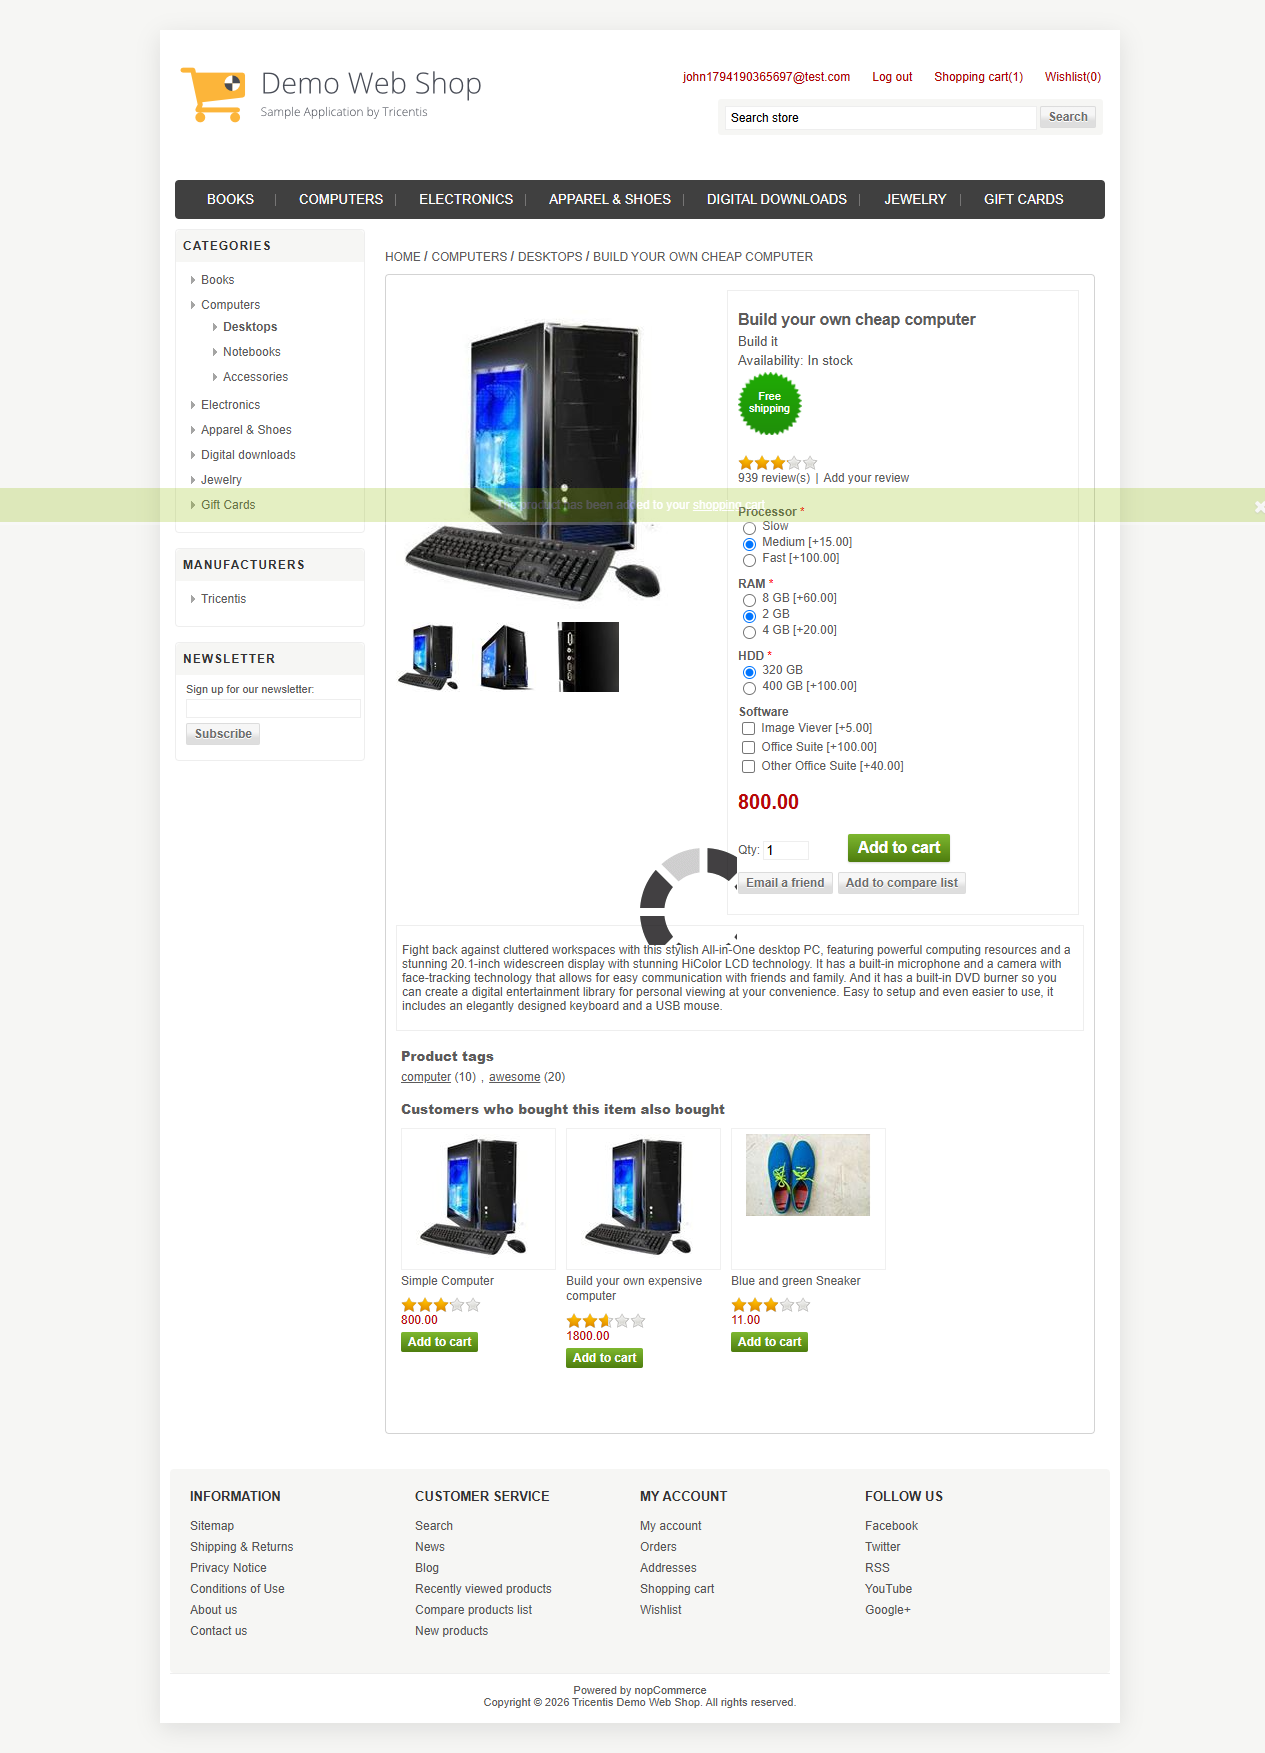
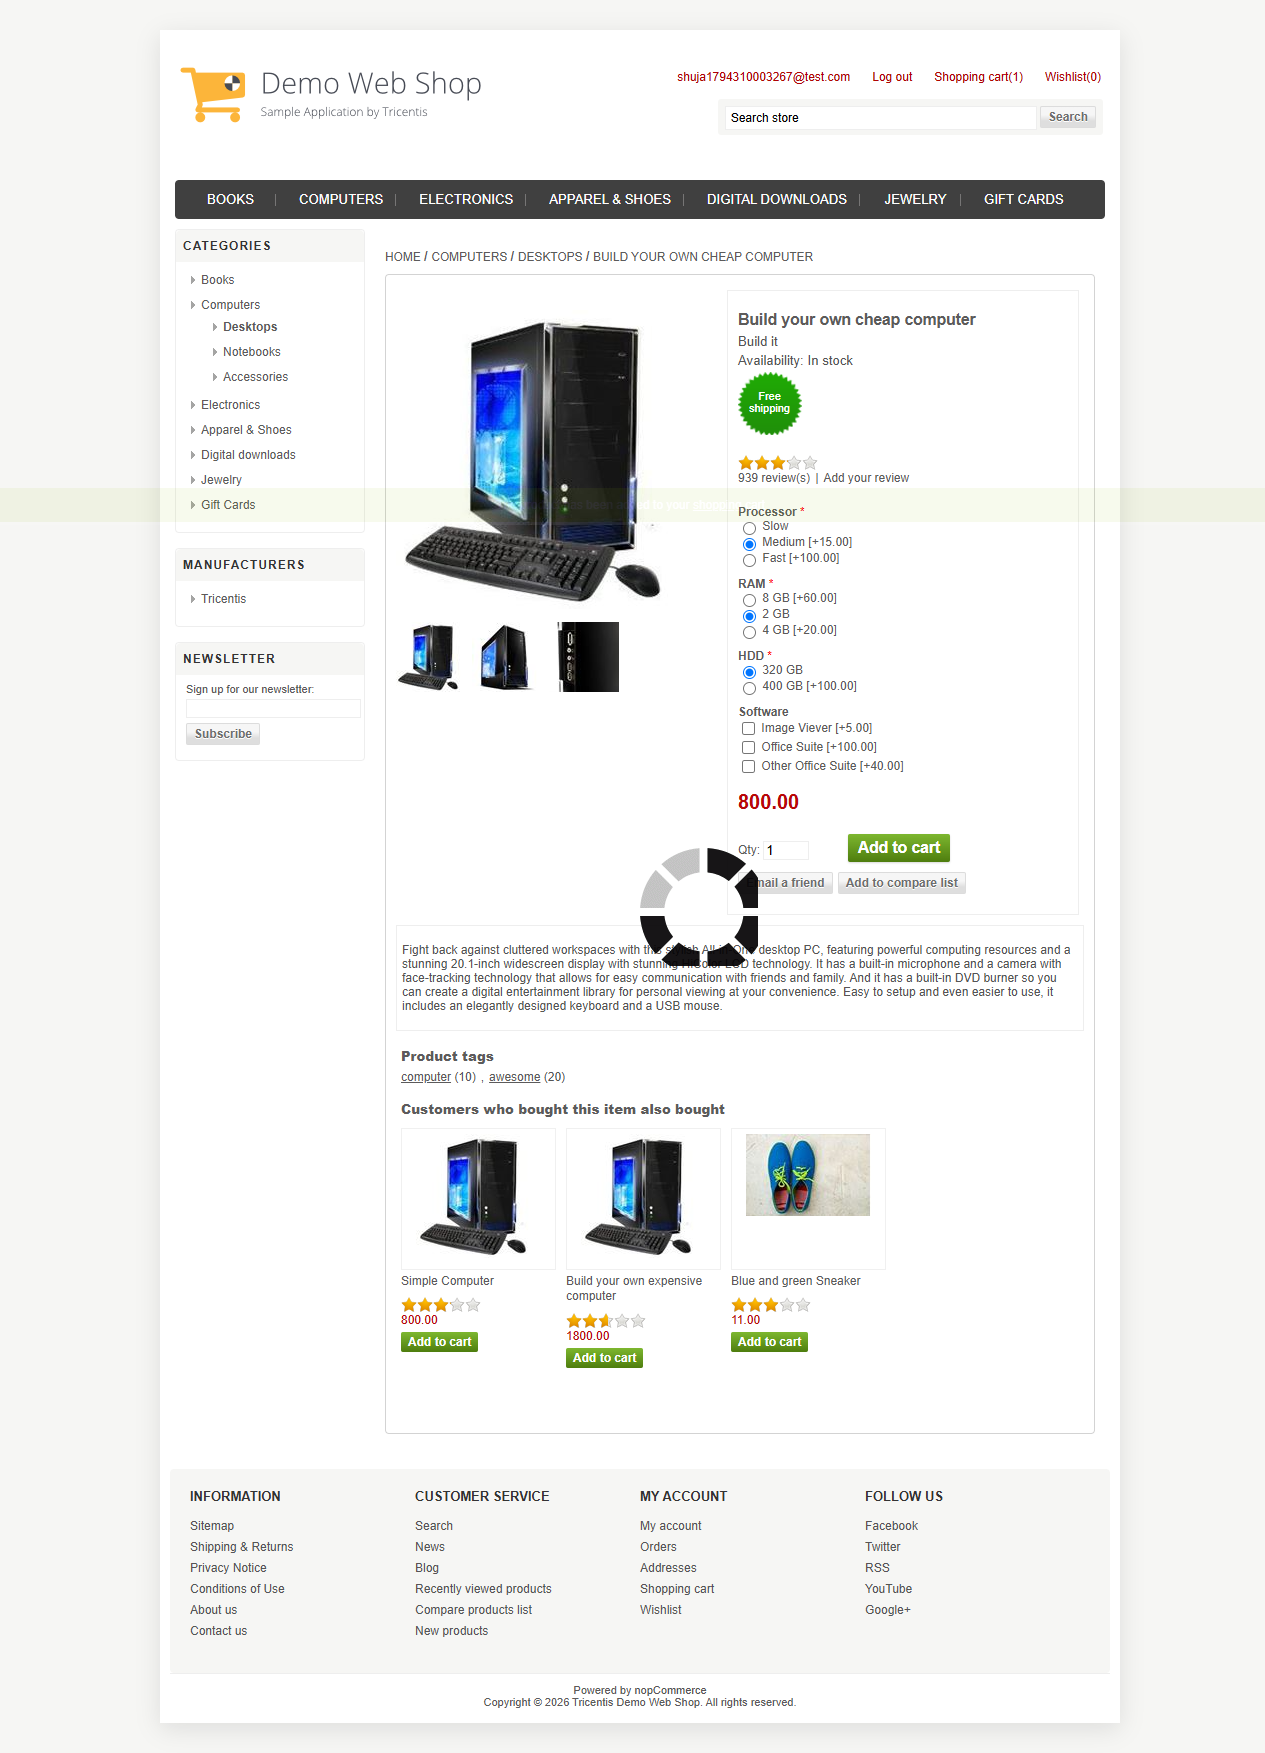
updated 0611

Changed region(s): [[0.0, 0.2772, 1.0, 0.308], [0.4933, 0.4621, 0.6166, 0.5545]]

diff --git a/tests/officeWork/assignment_08.spec.ts b/tests/officeWork/assignment_08.spec.ts
@@ -1,5 +1,5 @@
 import { test, expect } from '@playwright/test';
-
+// Assignment 0611
 // Hooks
 test.beforeEach(async ({ page }) => {
     await page.goto('https://demowebshop.tricentis.com/');
@@ -20,10 +20,10 @@ test('Demo Web Shop Complete User Journey', async ({ page, context }) => {
     // Locators & Web Elements
     await page.locator('.ico-register').click();
     await page.locator('#gender-male').check();
-    await page.locator('#FirstName').fill('John');
-    await page.locator('#LastName').fill('Doe');
+    await page.locator('#FirstName').fill('Shuja');
+    await page.locator('#LastName').fill('Rizvi');
 
-    const email = 'john' + Date.now() + '@test.com';
+    const email = 'shuja' + Date.now() + '@test.com';
     await page.locator('#Email').fill(email);
     await page.locator('#Password').fill('Password123');
     await page.locator('#ConfirmPassword').fill('Password123');
@@ -77,3 +77,31 @@ test('Demo Web Shop Complete User Journey', async ({ page, context }) => {
 
 
 
+
+
+//result ::
+
+//Line1 :  Running 1 test using 1 worker
+//Line2 :  [chromium] › tests\officeWork\assignment_08.spec.ts:14:5 › Demo Web Shop Complete User Journey
+//Why it's printed: Playwright tells you it found 1 test in your file and is running it on 1 parallel worker process. The second line shows the browser ([chromium]), the file path and line/column number where the test(...) block starts (14:5), and the title of the test (Demo Web Shop Complete User Journey).
+
+//Line3 :  Console message: [DOM] Input elements should have autocomplete attributes (suggested: "new-password"): (More info: https://goo.gl/9p2vKq) %o
+//Line4 :  Console message: [DOM] Input elements should have autocomplete attributes (suggested: "new-password"): (More info: https://goo.gl/9p2vKq) %o
+// Why it's printed: On line 16, you wrote:
+    // page.on('console', msg => console.log('Console message:', msg.text()));
+    // When your test clicked .ico-register (line 21) to open the registration page on demowebshop.tricentis.com, Chromium inspected the page's HTML and saw two password fields (#Password and #ConfirmPassword) that don't have an autocomplete="new-password" attribute in the website's source code. Chromium logged two best-practice warnings into the browser's DevTools console (one for each field), and your page.on('console') listener caught them and printed them to your terminal.
+
+//Line5 :  Failed request: https://s7.addthis.com/js/250/addthis_widget.js
+//Line6 :  Console message: Failed to load resource: net::ERR_NAME_NOT_RESOLVED
+// Why it's printed:
+    // 1. Failed request: ... comes from your listener on line 18: page.on('requestfailed', req => console.log('Failed request:', req.url()));
+    // 2. Console message: Failed to load resource... comes from your page.on('console') listener on line 16.
+    //What happened: When your test navigated to the product details page (Build your own cheap computer on line 43), the Demo Web Shop website tried to load an old social-sharing script from s7.addthis.com. Because Oracle permanently shut down the AddThis service in 2023, that domain no longer resolves (ERR_NAME_NOT_RESOLVED). It is a broken third-party script on the demo site itself—not a bug in your test—and your listeners simply reported that the network request failed.
+    
+//Line7 :  Iframe Heading: This page is displayed in an iframe
+//Why it's printed: On line 66, you explicitly logged the text content of the <h1> element inside the nested iframe on the W3Schools tab: console.log('Iframe Heading:', await heading.textContent());
+
+//Line8 :    1 passed (16.1s)
+//Line9 : To open last HTML report run:
+//Line10 : npx playwright show-report
+//Why it's printed: Playwright's final summary confirming that all assertions in your test succeeded (1 passed) in 16.1 seconds, along with the command you can run if you want to view the visual HTML report in your browser.
